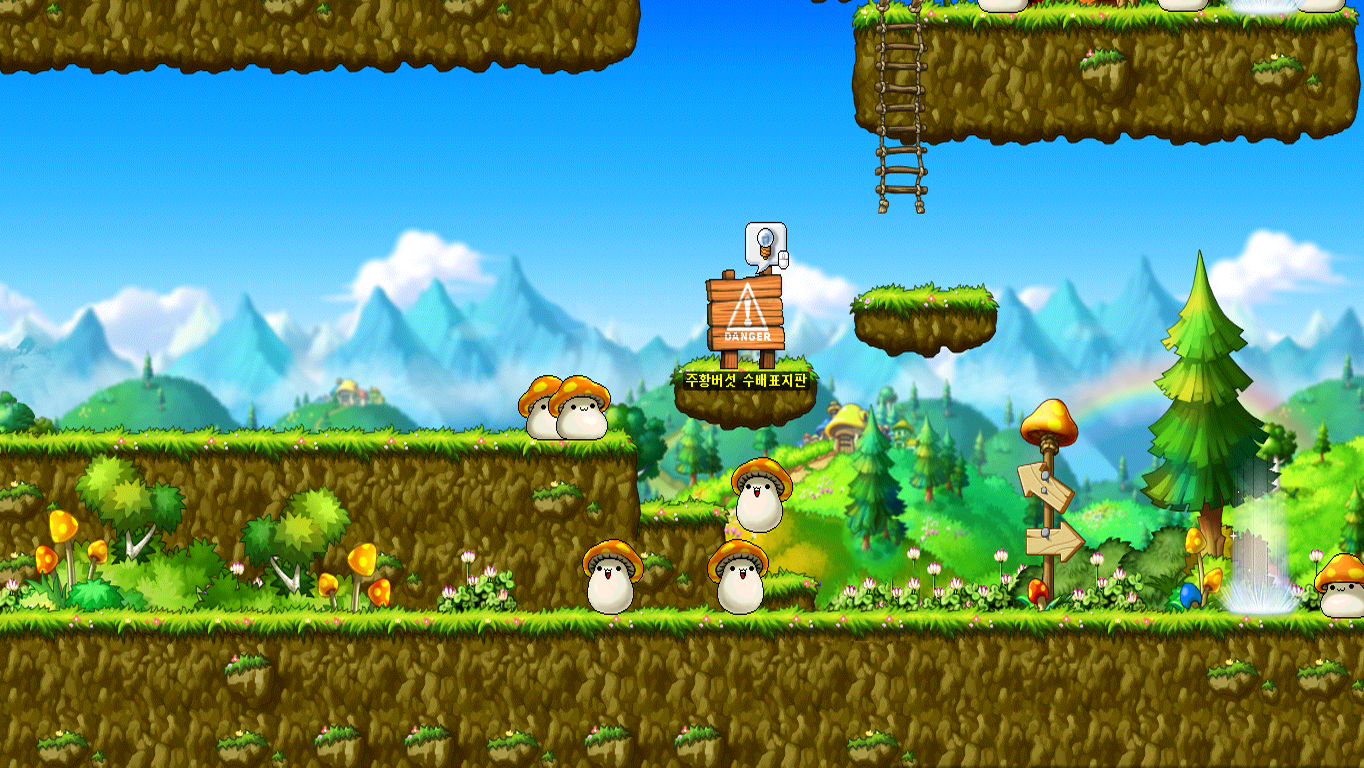
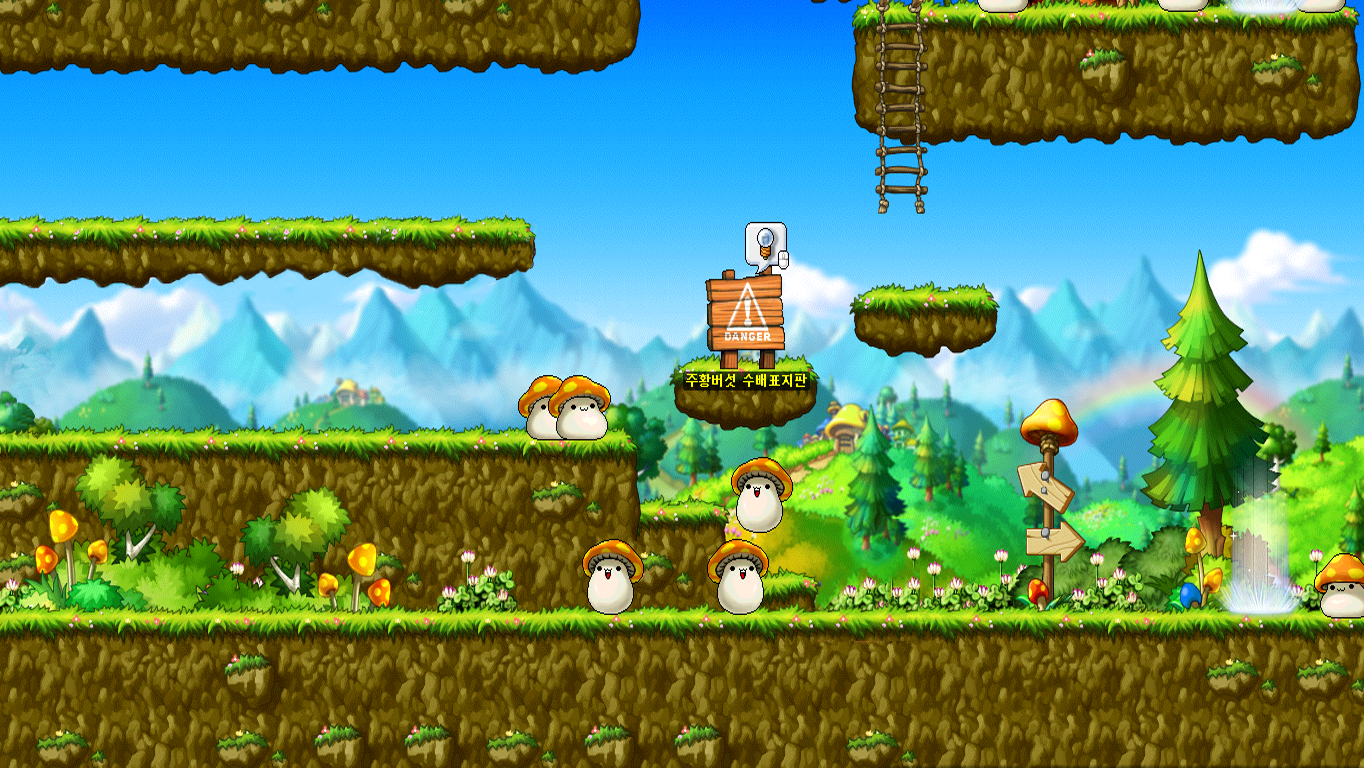
新增第三層菇菇

Changed region(s): [[0.0, 0.2812, 0.4003, 0.4062]]

diff --git a/打標靶/dagugu.html b/打標靶/dagugu.html
@@ -17,6 +17,16 @@
       height: 200px;
       background-color: bisque;
       float: right;
+      text-align: center;
+
+    }
+
+    .start {
+      width: 100px;
+      height: 100px;
+      text-align: center;
+      border-radius: 80px 80px;
+
     }
 
     #game {
@@ -41,7 +51,7 @@
 <body>
   <div id="game">
     <div class="point">
-      <input type="button" value="開始遊戲" id="btn-start">
+      <input type="button" value="開始狩獵菇菇" id="btn-start" class="start">
       <p>分數: <span id="text-score">0</span></p>
       <p>剩餘時間: <span id="text-time">30</span>秒</p>
     </div>
@@ -66,6 +76,7 @@
     }
 
     const movegu = (gugu) => {
+
       $(`#gu${gugu}`).animate({
         top: (79) + "%",
         left: rand(70) + "%"
@@ -77,8 +88,16 @@
       $(`#gu${gugu}`).animate({
         top: (51) + "%",
         left: rand(30) + "%"
-      }, 3000, function () {
+      }, 2000, function () {
         movetop(gugu);
+      })
+    }
+    const moveup = (gugu) => {
+      $(`#gu${gugu}`).animate({
+        top: (18) + "%",
+        left: rand(35) + "%"
+      }, 3000, function () {
+        moveup(gugu);
       })
     }
 
@@ -117,21 +136,36 @@
           const num = rand(10);
           // 如果抽到數字大於 5 ，生一個殭屍
           if (num > 3) {
-            $("#game").append(`<img src="./gugu2.gif" id="gu${gugu}">`);
+            $("#game").append(`<img src="./gugu3.gif" id="gu${gugu}">`);
             $(`#gu${gugu}`).css({
               top: (79) + "%",
               left: rand(70) + "%"
             })
+            // let num2 = rand(5)
+
+            // if (num2 < 3) {
+            //   movetop(gugu);
+            // }
+            // else {}
             movegu(gugu);
             gugu++;
           }
           if (gugu > 5) {
-            $("#game").append(`<img src="./gugu2.gif" id="gu${gugu}">`);
+            $("#game").append(`<img src="./gugu3.gif" id="gu${gugu}">`);
             $(`#gu${gugu}`).css({
               top: (51) + "%",
-              left: rand(30) + "%"
+              left: rand(40) + "%"
             })
             movetop(gugu);
+            gugu++;
+          }
+          if (gugu > 10) {
+            $("#game").append(`<img src="./gugu3.gif" id="gu${gugu}">`);
+            $(`#gu${gugu}`).css({
+              top: (18) + "%",
+              left: rand(35) + "%"
+            })
+            moveup(gugu);
             gugu++;
           }
         }
